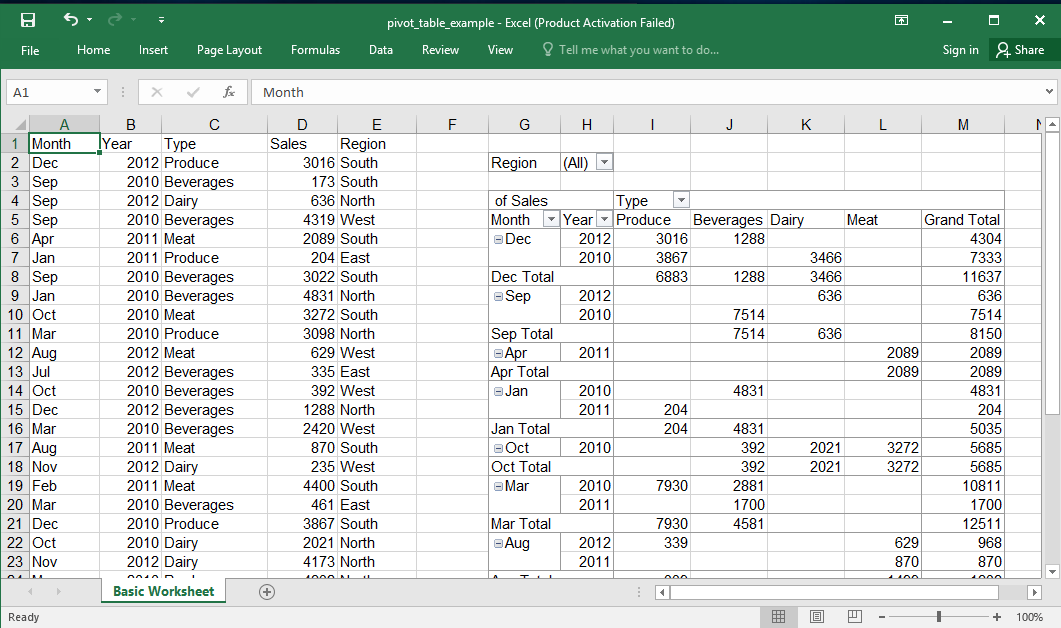
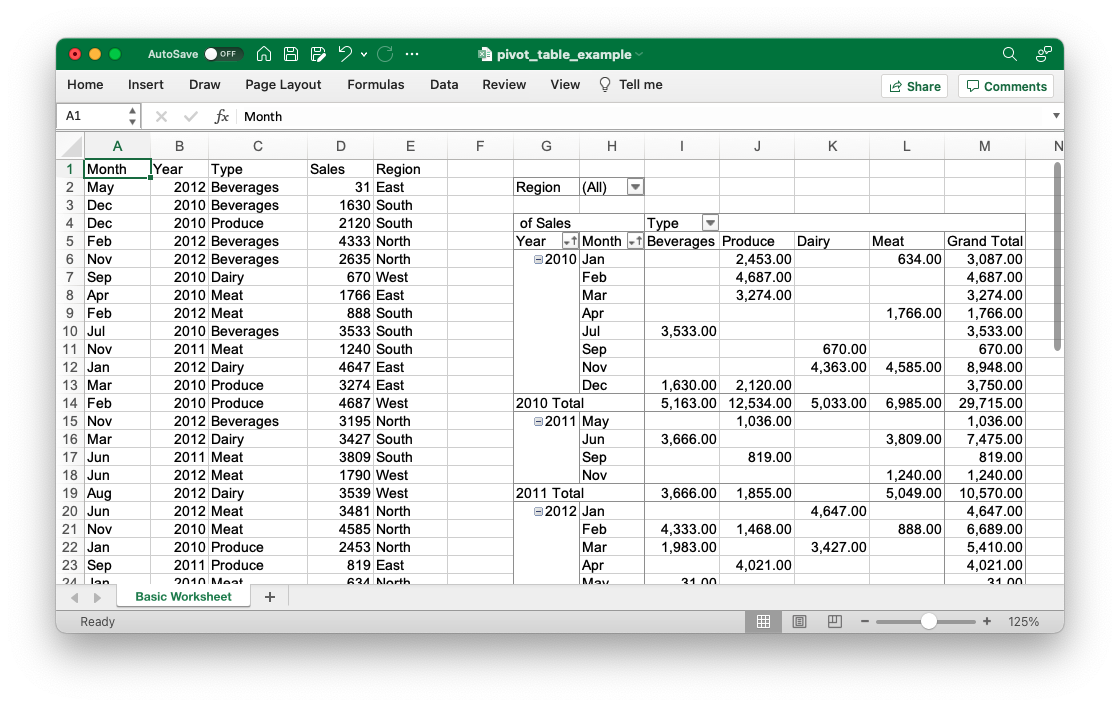
Add pivot table option to sort headers (#143)

diff --git a/lib/axlsx/workbook/worksheet/pivot_table.rb b/lib/axlsx/workbook/worksheet/pivot_table.rb
@@ -26,17 +26,33 @@ module Axlsx
       @pages = []
       @subtotal = nil
       @no_subtotals_on_headers = []
+      @sort_on_headers = {}
       @style_info = {}
       parse_options options
       yield self if block_given?
     end
 
-    # Defines the headers in which subtotals are not to be included
-    # @return[Array]
+    # Defines the headers in which subtotals are not to be included.
+    # @return [Array]
     attr_accessor :no_subtotals_on_headers
 
+    # Defines the headers in which sort is applied.
+    # Can be an array of headers to sort ascending by default, or a hash for specific control
+    # (with headers as keys, `:ascending` or `:descending` as values).
+    #
+    # Examples: `["year", "month"]` or `{"year" => :descending, "month" => :descending}`
+    # @return [Hash]
+    attr_reader :sort_on_headers
+
+    # (see #sort_on_headers)
+    def sort_on_headers=(headers)
+      headers ||= {}
+      headers = Hash[*headers.map { |h| [h, :ascending] }.flatten] if headers.is_a?(Array)
+      @sort_on_headers = headers
+    end
+
     # Style info for the pivot table
-    # @return[Hash]
+    # @return [Hash]
     attr_accessor :style_info
 
     # The reference to the table data
@@ -178,9 +194,13 @@ module Axlsx
 
       str << ('<location firstDataCol="1" firstDataRow="1" firstHeaderRow="1" ref="' << ref << '"/>')
       str << ('<pivotFields count="' << header_cells_count.to_s << '">')
+
       header_cell_values.each do |cell_value|
-        str << pivot_field_for(cell_value, !no_subtotals_on_headers.include?(cell_value))
+        subtotal = !no_subtotals_on_headers.include?(cell_value)
+        sorttype = sort_on_headers[cell_value]
+        str << pivot_field_for(cell_value, subtotal, sorttype)
       end
+
       str << '</pivotFields>'
       if rows.empty?
         str << '<rowFields count="1"><field x="-2"/></rowFields>'
@@ -267,22 +287,31 @@ module Axlsx
 
     private
 
-    def pivot_field_for(cell_ref, subtotal=true)
+    def pivot_field_for(cell_ref, subtotal, sorttype)
+      attributes = %w[compact="0" outline="0" subtotalTop="0" showAll="0" includeNewItemsInFilter="1"]
+      items_tag = '<items count="1"><item t="default"/></items>'
+      include_items_tag = false
+
       if rows.include? cell_ref
+        attributes << 'axis="axisRow"'
+        attributes << "sortType=\"#{sorttype == :descending ? 'descending' : 'ascending'}\"" if sorttype
         if subtotal
-          '<pivotField axis="axisRow" compact="0" outline="0" subtotalTop="0" showAll="0" includeNewItemsInFilter="1"><items count="1"><item t="default"/></items></pivotField>'
+          include_items_tag = true
         else
-          '<pivotField axis="axisRow" compact="0" outline="0" subtotalTop="0" showAll="0" includeNewItemsInFilter="1" defaultSubtotal="0"></pivotField>'
+          attributes << 'defaultSubtotal="0"'
         end
       elsif columns.include? cell_ref
-        '<pivotField axis="axisCol" compact="0" outline="0" subtotalTop="0" showAll="0" includeNewItemsInFilter="1"><items count="1"><item t="default"/></items></pivotField>'
+        attributes << 'axis="axisCol"'
+        attributes << "sortType=\"#{sorttype == :descending ? 'descending' : 'ascending'}\"" if sorttype
+        include_items_tag = true
       elsif pages.include? cell_ref
-        '<pivotField axis="axisPage" compact="0" outline="0" subtotalTop="0" showAll="0" includeNewItemsInFilter="1"><items count="1"><item t="default"/></items></pivotField>'
+        attributes << 'axis="axisPage"'
+        include_items_tag = true
       elsif data_refs.include? cell_ref
-        '<pivotField dataField="1" compact="0" outline="0" subtotalTop="0" showAll="0" includeNewItemsInFilter="1"></pivotField>'
-      else
-        '<pivotField compact="0" outline="0" subtotalTop="0" showAll="0" includeNewItemsInFilter="1"></pivotField>'
+        attributes << 'dataField="1"'
       end
+
+      "<pivotField #{attributes.join(' ')}>#{include_items_tag ? items_tag : nil}</pivotField>"
     end
 
     def data_refs

diff --git a/test/workbook/worksheet/tc_pivot_table.rb b/test/workbook/worksheet/tc_pivot_table.rb
@@ -87,6 +87,19 @@ class TestPivotTable < Test::Unit::TestCase
     assert_equal(['Year'], pivot_table.no_subtotals_on_headers)
   end
 
+  def test_add_pivot_table_with_months_sorted
+    pivot_table = @ws.add_pivot_table('G5:G6', 'A1:E5', {:sort_on_headers=>['Month']}) do |pt|
+      pt.data = ['Sales']
+      pt.rows = ['Year','Month']
+    end
+    assert_equal({'Month' => :ascending}, pivot_table.sort_on_headers)
+
+    pivot_table.sort_on_headers = {'Month' => :descending}
+    assert_equal({'Month' => :descending}, pivot_table.sort_on_headers)
+
+    shared_test_pivot_table_xml_validity(pivot_table)
+  end
+
   def test_header_indices
     pivot_table = @ws.add_pivot_table('G5:G6', 'A1:E5')
     assert_equal(0,   pivot_table.header_index_of('Year'   ))

diff --git a/CHANGELOG.md b/CHANGELOG.md
@@ -2,6 +2,7 @@ CHANGELOG
 ---------
 
 - **Unreleased**
+  - [PR #143](https://github.com/caxlsx/caxlsx/pull/143) - Add setting `sort_on_headers` for pivot tables
   - [PR #132](https://github.com/caxlsx/caxlsx/pull/132) - Remove monkey patch from Object#instance_values
   - [PR #139](https://github.com/caxlsx/caxlsx/pull/139) - Sort archive entries for correct MIME detection with `file` command
   - [PR #140](https://github.com/caxlsx/caxlsx/pull/140) - Update gemspec to recent styles - it reduced the size of the gem

diff --git a/examples/pivot_table_example.md b/examples/pivot_table_example.md
@@ -24,8 +24,8 @@ wb.add_worksheet(name: 'Basic Worksheet') do |sheet|
     ]
   end
 
-  sheet.add_pivot_table 'G4:L17', 'A1:E31' do |pivot_table|
-    pivot_table.rows = ['Month', 'Year']
+  sheet.add_pivot_table 'G4:L17', 'A1:E31', sort_on_headers: ['Year', 'Month'] do |pivot_table|
+    pivot_table.rows = ['Year', 'Month']
     pivot_table.columns = ['Type']
     pivot_table.data = [ref: 'Sales', num_fmt: 4]
     pivot_table.pages = ['Region']
